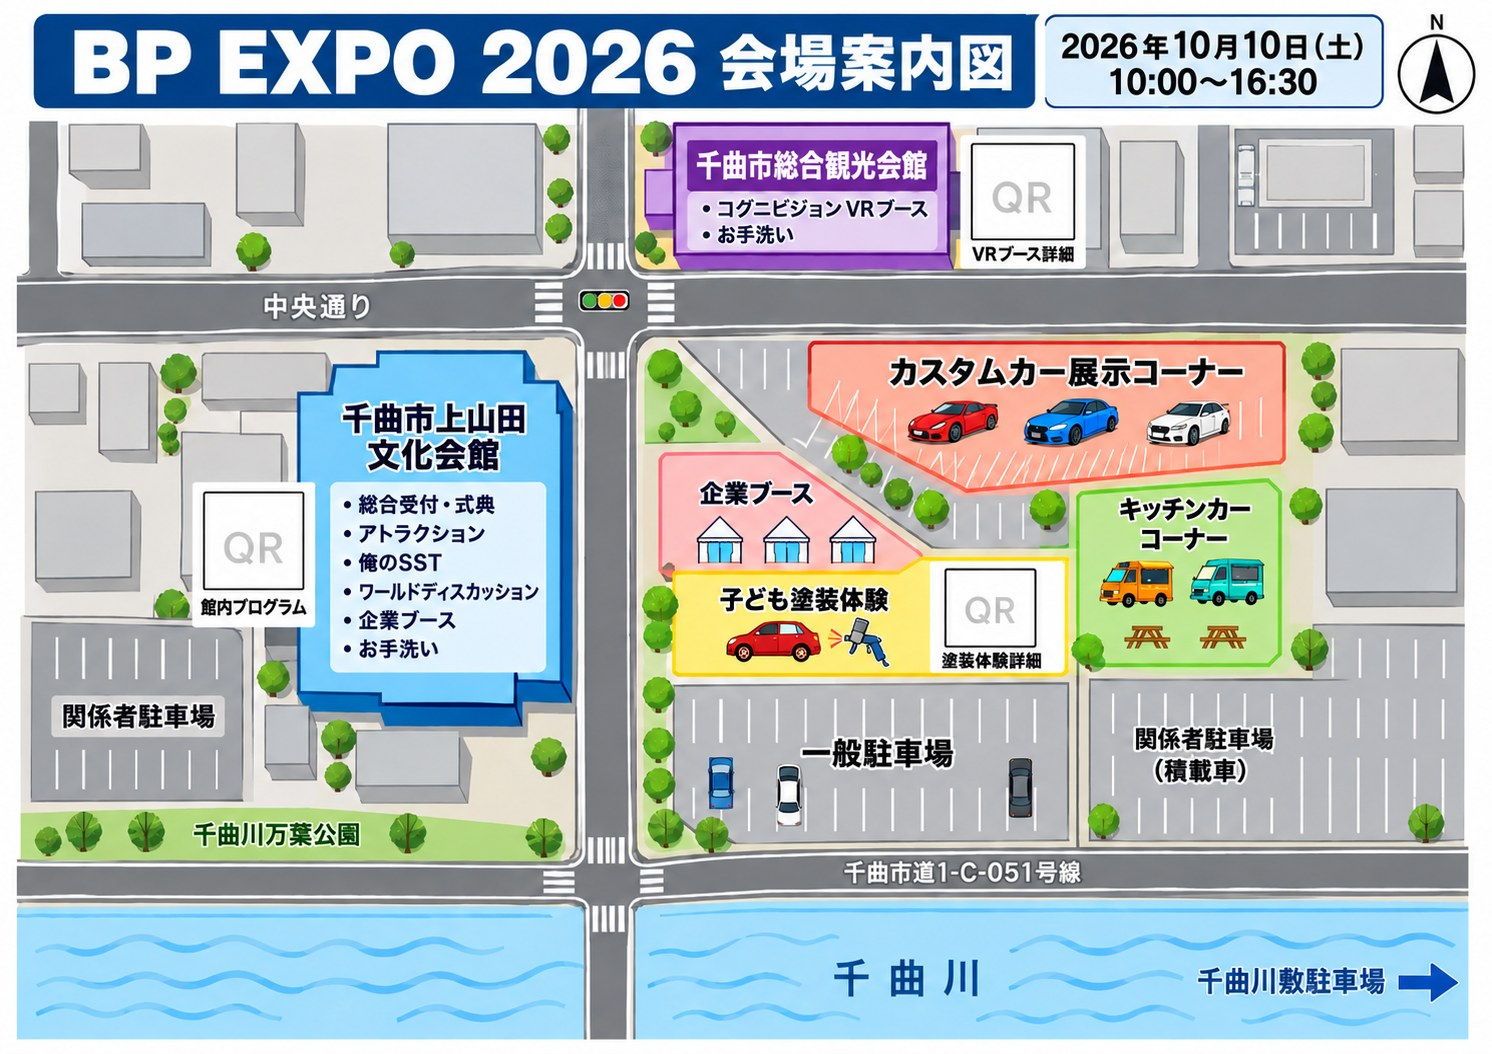
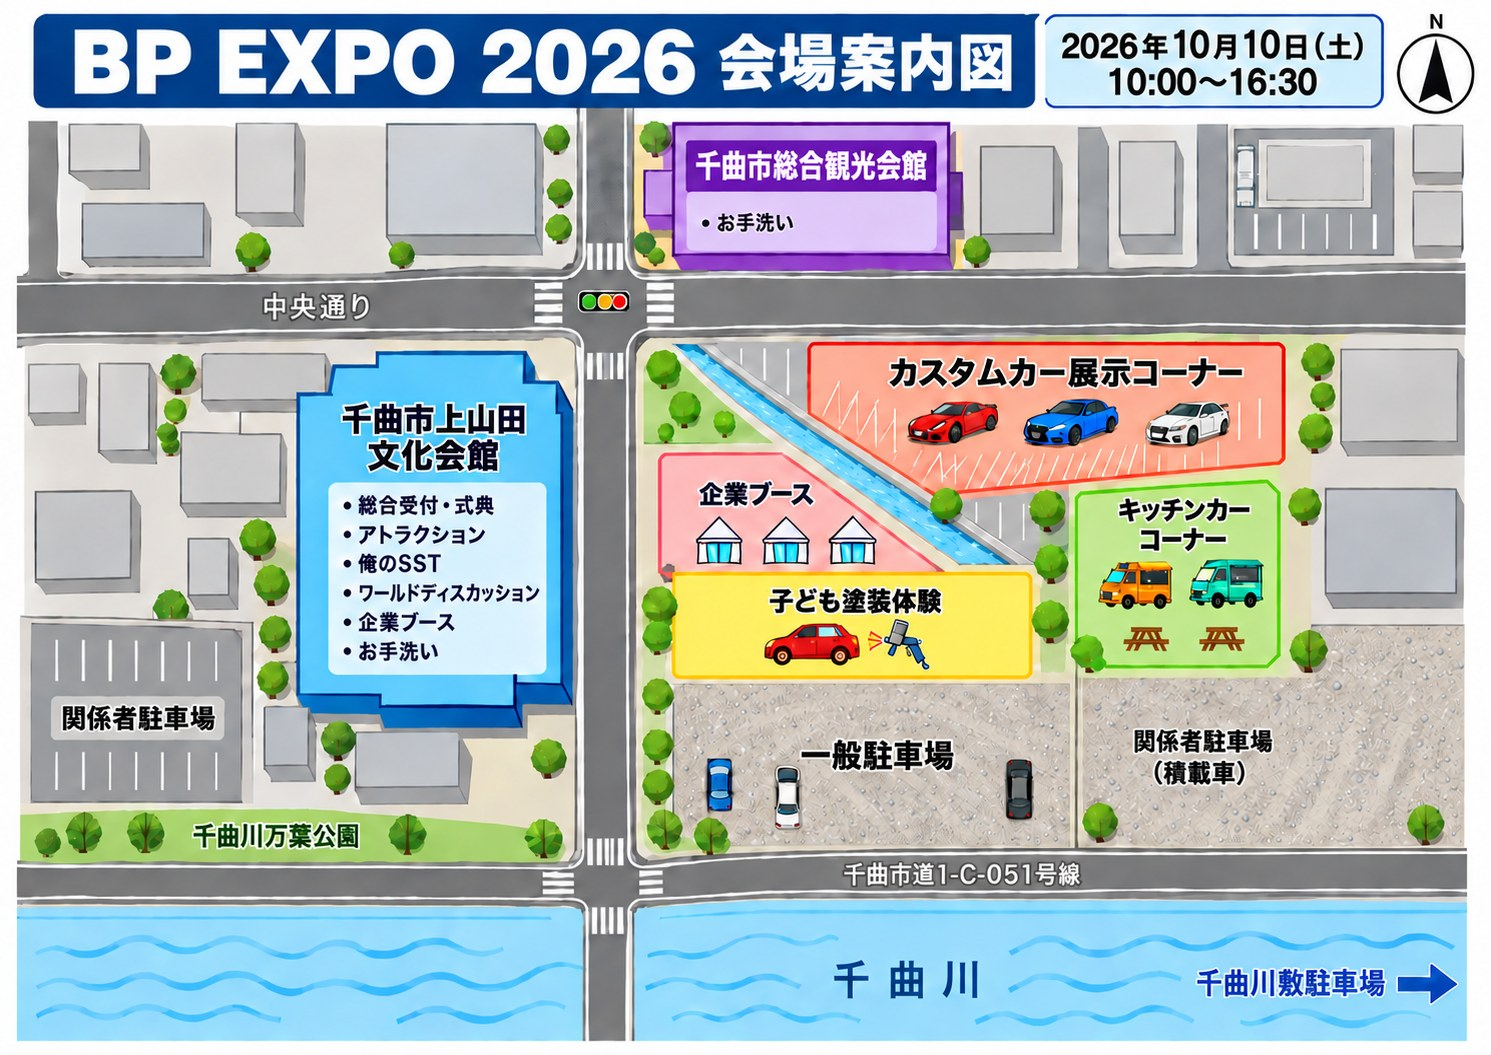
Add files via upload

diff --git a/index.html b/index.html
@@ -63,6 +63,11 @@
         </div>
     </section>
 
+    <!-- Key Visual -->
+    <section class="kv-band reveal">
+        <img src="kv_main.jpg" alt="JABRA BP EXPO 2026 × ナガノフッコースタイル 技術がつなぐ、未来のクルマ社会。">
+    </section>
+
     <!-- About Section -->
     <section id="about" class="section about-section">
         <div class="container reveal">
@@ -192,7 +197,7 @@
                     </div>
                     <div class="venue-card mt-2">
                         <h4>千曲市総合観光会館 <span>[サブ会場]</span></h4>
-                        <p>コグニビジョン VRブース／お手洗い</p>
+                        <p>お手洗い</p>
                     </div>
                     <div class="venue-card mt-2">
                         <h4>屋外エリア <span>[中央通り東側]</span></h4>
@@ -200,7 +205,14 @@
                     </div>
                     <div class="venue-card mt-2">
                         <h4>駐車場 <span>[無料]</span></h4>
-                        <p>一般駐車場、千曲川敷駐車場をご利用ください。<br>会場周辺の案内看板に従ってご利用ください。</p>
+                        <p>
+                            一般来場者・日帰り会員：C駐車場（上山田文化会館側）<br>
+                            家族連れの一般来場者：D入口からE駐車場へご案内<br>
+                            宿泊者：圓山荘 F・G駐車場<br>
+                            出展（屋外）：Eエリア／出展（屋内）：C駐車場（文化会館真裏）
+                        </p>
+                        <p class="note mt-2">※当日は係員・案内看板の誘導に従ってご利用ください。</p>
+                        <a class="map-link" href="parking.jpg" target="_blank" rel="noopener noreferrer">駐車場のご案内（詳細）を見る →</a>
                     </div>
 
 </div>
@@ -260,6 +272,36 @@
         </div>
     </section>
 
+    <!-- Access Section -->
+    <section id="access" class="section access-section bg-light">
+        <div class="container reveal">
+            <div class="section-header align-center">
+                <h2 class="section-title">会場までのアクセス</h2>
+                <span class="section-subtitle">ACCESS</span>
+            </div>
+
+            <ul class="access-steps">
+                <li><span class="access-step">1</span><strong>東京駅</strong><span>北陸新幹線（長野・金沢方面）約90分</span></li>
+                <li><span class="access-step">2</span><strong>上田駅</strong><span>しなの鉄道（長野行き）約15分</span></li>
+                <li><span class="access-step">3</span><strong>戸倉駅</strong><span>タクシー 約10分</span></li>
+                <li><span class="access-step">4</span><strong>上山田文化会館</strong><span>長野県千曲市上山田温泉3丁目1-1</span></li>
+            </ul>
+
+            <p class="access-note">
+                <strong>上田駅に停車する北陸新幹線をご利用ください。</strong><br>
+                「かがやき」は上田駅に停車しません。「はくたか」も列車によって上田駅を通過する場合があります。<br>
+                上田駅に停車する「はくたか」「あさま」をご利用ください。（東京駅から合計 約2時間）
+            </p>
+
+            <div class="venue-map">
+                <a href="access.jpg" target="_blank" rel="noopener noreferrer">
+                    <img src="access.jpg" alt="東京駅からBP EXPO 2026会場までのアクセス">
+                </a>
+                <p class="note mt-2">※タップすると拡大表示できます。</p>
+            </div>
+        </div>
+    </section>
+
     <!-- Time Schedule Section -->
     <section id="schedule" class="section schedule-section bg-light">
         <div class="container reveal">
@@ -268,126 +310,26 @@
                 <span class="section-subtitle">TIME SCHEDULE</span>
             </div>
 
-            <div class="schedule-grid">
-                <div class="schedule-col">
-                    <h3 class="schedule-col-title">屋内（千曲市上山田文化会館）</h3>
-                    <ul class="schedule-list">
-                        <li class="schedule-item">
-                            <span class="schedule-time">10:30〜12:00</span>
-                            <div class="schedule-body">
-                                <strong>協賛企業展示・セミナー</strong><span>A・B・C教室／バンザイ、日本ペイント、Sネットレンタカー、コグニビジョン、カーエアコンC</span>
-                            </div>
-                        </li>
-                        <li class="schedule-item">
-                            <span class="schedule-time">12:00</span>
-                            <div class="schedule-body">
-                                <strong>開場</strong>
-                            </div>
-                        </li>
-                        <li class="schedule-item">
-                            <span class="schedule-time">12:00〜15:50</span>
-                            <div class="schedule-body">
-                                <strong>「俺のSST」展示</strong><span>入口ロビー</span>
-                            </div>
-                        </li>
-                        <li class="schedule-item">
-                            <span class="schedule-time">13:00</span>
-                            <div class="schedule-body">
-                                <strong>開会宣言・ファッションショー</strong><span>松本部会長／長野陸運支局長 ご挨拶</span>
-                            </div>
-                        </li>
-                        <li class="schedule-item">
-                            <span class="schedule-time">13:20</span>
-                            <div class="schedule-body">
-                                <strong>「俺のSST」開催・SST紹介</strong>
-                            </div>
-                        </li>
-                        <li class="schedule-item">
-                            <span class="schedule-time">13:30〜14:50</span>
-                            <div class="schedule-body">
-                                <strong>「俺のSST」単組紹介</strong>
-                            </div>
-                        </li>
-                        <li class="schedule-item">
-                            <span class="schedule-time">14:50</span>
-                            <div class="schedule-body">
-                                <strong>企業PR</strong>
-                            </div>
-                        </li>
-                        <li class="schedule-item">
-                            <span class="schedule-time">15:00</span>
-                            <div class="schedule-body">
-                                <strong>ワールドディスカッション</strong>
-                            </div>
-                        </li>
-                        <li class="schedule-item">
-                            <span class="schedule-time">15:50</span>
-                            <div class="schedule-body">
-                                <strong>終了</strong>
-                            </div>
-                        </li>
-                        <li class="schedule-item">
-                            <span class="schedule-time">16:00〜17:00</span>
-                            <div class="schedule-body">
-                                <strong>各教室プログラム</strong><span>日本ペイント／ツールプラネット／コグニビジョン</span>
-                            </div>
-                        </li>
-                    </ul>
-                </div>
-                <div class="schedule-col">
-                    <h3 class="schedule-col-title schedule-col-title--outdoor">屋外（千曲市総合観光会館）</h3>
-                    <ul class="schedule-list">
-                        <li class="schedule-item">
-                            <span class="schedule-time">10:00〜</span>
-                            <div class="schedule-body">
-                                <strong>開場</strong>
-                            </div>
-                        </li>
-                        <li class="schedule-item">
-                            <span class="schedule-time">10:00〜16:00</span>
-                            <div class="schedule-body">
-                                <strong>グッズ販売</strong><span>ここでしか買えない限定グッズ！（終日開催）</span>
-                            </div>
-                        </li>
-                        <li class="schedule-item">
-                            <span class="schedule-time">10:30〜16:00</span>
-                            <div class="schedule-body">
-                                <strong>子ども塗装体験</strong><span>みんなでクルマをカラフルに！</span>
-                            </div>
-                        </li>
-                        <li class="schedule-item">
-                            <span class="schedule-time">10:30〜12:00</span>
-                            <div class="schedule-body">
-                                <strong>キッチンカー準備中</strong>
-                            </div>
-                        </li>
-                        <li class="schedule-item">
-                            <span class="schedule-time">12:00〜15:50</span>
-                            <div class="schedule-body">
-                                <strong>昼食タイム</strong><span>おいしいグルメでイベントをもっと楽しく！</span>
-                            </div>
-                        </li>
-                        <li class="schedule-item">
-                            <span class="schedule-time">10:30〜17:00</span>
-                            <div class="schedule-body">
-                                <strong>車両展示</strong><span>話題の車両を間近で体験！</span>
-                            </div>
-                        </li>
-                        <li class="schedule-item">
-                            <span class="schedule-time">随時</span>
-                            <div class="schedule-body">
-                                <strong>観光会館内のご見学も</strong><span>千曲の魅力もぜひご覧ください！</span>
-                            </div>
-                        </li>
-                    </ul>
-                </div>
+            <div class="venue-map timetable-figure">
+                <a href="ts_main.jpg" target="_blank" rel="noopener noreferrer">
+                    <img src="ts_main.jpg" alt="BP EXPO 2026 タイムスケジュール">
+                </a>
+                <p class="note mt-2">※タップすると拡大表示できます。内容は変更になる場合があります。</p>
             </div>
 
             <div class="venue-map">
-                <a href="timetable.jpg" target="_blank" rel="noopener noreferrer">
-                    <img src="timetable.jpg" alt="BP EXPO 2026 タイムスケジュール">
+                <a href="timetable2.jpg" target="_blank" rel="noopener noreferrer">
+                    <img src="timetable2.jpg" alt="BP EXPO 2026 タイムスケジュール（会場別）">
                 </a>
-                <p class="note mt-2">※タップすると拡大表示できます。内容は変更になる場合があります。</p>
+                <p class="note mt-2">※タップすると拡大表示できます。</p>
+            </div>
+
+            <div class="venue-map">
+                <h3 class="venue-map-title">協賛企業セミナー（A・B・C教室）</h3>
+                <a href="seminar.jpg" target="_blank" rel="noopener noreferrer">
+                    <img src="seminar.jpg" alt="10/10開催 自動車関連セミナー 企業別タイムスケジュール">
+                </a>
+                <p class="note mt-2">バンザイ／日本ペイント／Sネットレンタカー／コグニビジョン／カーエアコンクリーニング／ツールプラネットの6社によるセミナーを、11:00〜12:00と16:00〜17:00に教室ごとに開催します。</p>
             </div>
         </div>
     </section>

diff --git a/style.css b/style.css
@@ -768,6 +768,71 @@ h4 {
     display: block;
 }
 
+.timetable-figure img {
+    max-width: 620px;
+}
+
+.kv-band img {
+    width: 100%;
+    display: block;
+}
+
+.access-steps {
+    list-style: none;
+    display: grid;
+    grid-template-columns: repeat(4, 1fr);
+    gap: 1rem;
+    margin-bottom: 2rem;
+}
+
+@media (max-width: 760px) {
+    .access-steps {
+        grid-template-columns: 1fr;
+    }
+}
+
+.access-steps li {
+    background: #fff;
+    border-radius: 16px;
+    padding: 1.5rem 1.2rem;
+    text-align: center;
+    box-shadow: 0 8px 24px rgba(0, 0, 0, 0.06);
+}
+
+.access-step {
+    display: inline-flex;
+    align-items: center;
+    justify-content: center;
+    width: 36px;
+    height: 36px;
+    border-radius: 50%;
+    background: var(--primary-color);
+    color: #fff;
+    font-weight: 700;
+    margin-bottom: 0.8rem;
+}
+
+.access-steps strong {
+    display: block;
+    font-size: 1.1rem;
+    margin-bottom: 0.4rem;
+}
+
+.access-steps span:not(.access-step) {
+    display: block;
+    font-size: 0.85rem;
+    color: var(--text-light);
+}
+
+.access-note {
+    background: #fff;
+    border-left: 4px solid var(--accent-color);
+    border-radius: 0 12px 12px 0;
+    padding: 1.5rem;
+    font-size: 0.95rem;
+    line-height: 1.9;
+}
+
 .schedule-grid {
     display: grid;
     grid-template-columns: 1fr 1fr;
